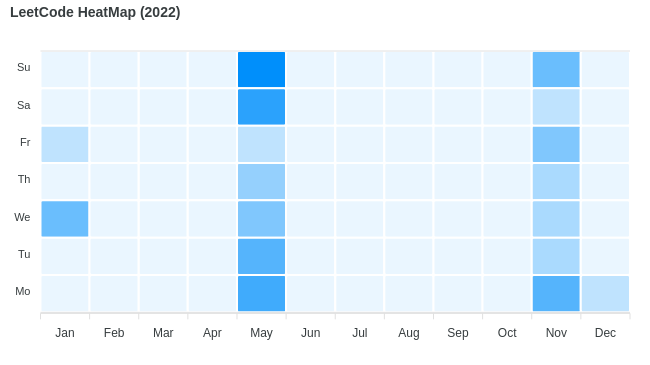
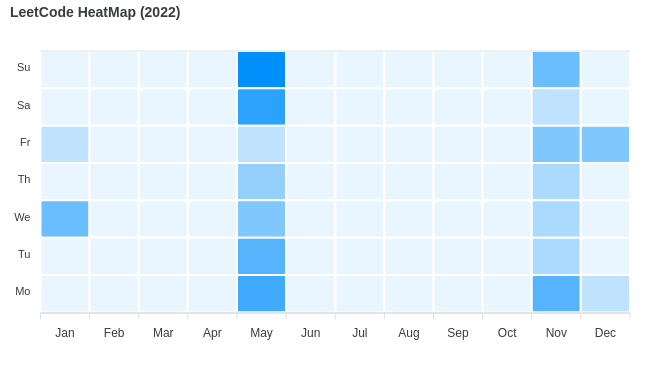
update heatmap.png

Changed region(s): [[0.8923, 0.3315, 0.9846, 0.4521]]

diff --git a/README.md b/README.md
@@ -3,7 +3,7 @@
 
 Collection of LeetCode questions to ace the coding interview! - Created using [LeetHub](https://github.com/QasimWani/LeetHub)
 
-> Questions solved 85
+> Questions solved 90
 
 ## Contribution 
 
